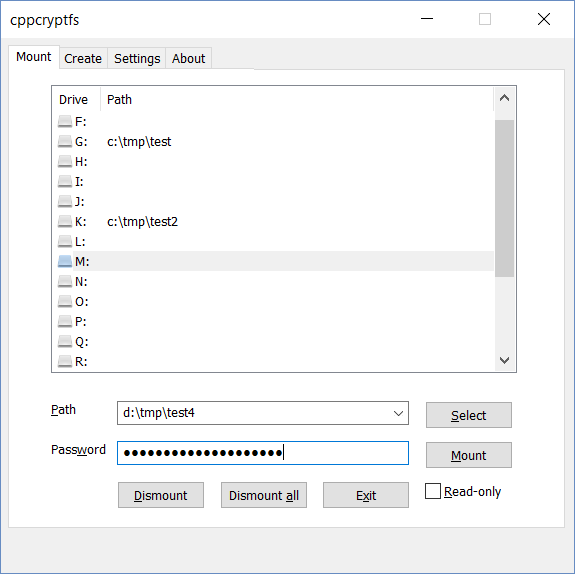
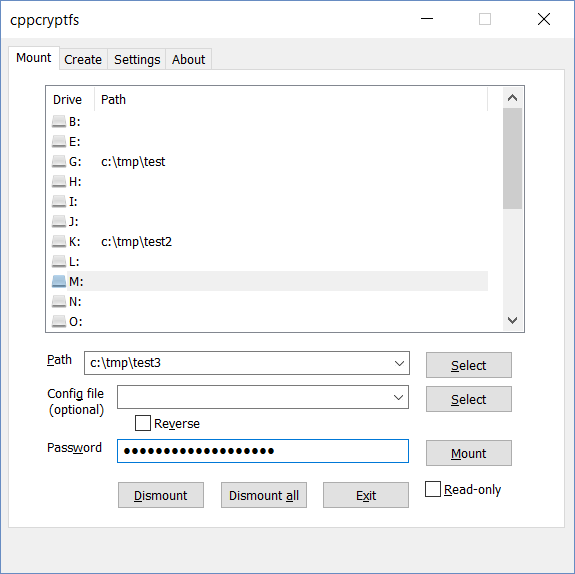
update readme and screenshots for custom config file

diff --git a/README.md b/README.md
@@ -49,7 +49,7 @@ Build Requirements
 
 There are detailed build instructions in [INSTALL.md](INSTALL.md).
 
-cppcryptfs is currently up-to-date with Dokany 1.0.3
+cppcryptfs is currently up-to-date with Dokany 1.0.5
 
 
 Use
@@ -87,7 +87,9 @@ Note: In the gocryptfs documentation, the SIV mode is referred to as AES-512-SIV
 
 If you check Reverse then you will be creating a Reverse Mode filesystem.  See the section in this document about Reverse Mode for more information.
 
-When you click on the "Create" button, a gocryptfs.conf file will be created in the directory.  Unless you choose to use plain text file names, a gocryptfs.diriv will also be created there.  Be sure to back up these files in case they get lost or corrupted.  You won't be able to access any of your data if something happens to gocryptfs.conf.  gocryptfs.conf will never change for the life of your filesystem unless you change the volume label (see bellow).
+If you wish, you can specifiy a config file.  This is the file that contains the settings for the filesystem and also the random 256-bit AES master key that is encrypted using your password.  The config file file can be kept outside the encrypted filesystem for an extra degree of security.
+
+When you click on the "Create" button, config file will be created. It will be created as gocryptfs.conf in the root directory of the encrypted filesystem unless you specified an alternate config file.  Unless you choose to use plain text file names, a gocryptfs.diriv will also be created there.  Be sure to back up these files in case they get lost or corrupted.  You won't be able to access any of your data if something happens to gocryptfs.conf.  gocryptfs.conf will never change for the life of your filesystem unless you change the volume label (see bellow).
 
 If you choose to give the volume a label, then the label will be encrypted in gocryptfs.conf.  The maximum volume label length is 32 characters. 
 
@@ -98,9 +100,15 @@ You can right click on the mounted drive letter in File Explorer, select "Proper
 Then go to the "Mount" tab and select a drive letter and select the folder you
 just created the filesystem in.  Then enter the password and click on the "Mount" button.
 
+If you specified a custom path for the config file when you created the filesystem, then you must specify it here also.
+
+If you specified a custom path for the config file, you must also select "reverese" if it is a reverse filesystem.  Otherwise, cppcryptfs will automatically dtect if the filesytem should be mounted in forward or reverse mode.
+
+Note:  cppcryptfs uses the path to the encrypted filesystem as a key for rembering the custom path to the config file (if there is one) and other settings like reverse and read only.  So when you select a path to mount, be sure to verify that these settings are what you wish to use this time.
+
 ![Alt text](/screenshots/screenshot_mount.png?raw=true "Mount tab")
 
-Your will then have a new drive letter, and you can use it like a normal drive letter and store your sensitive information there.  The data is encrypted and saved in files in the folder you specified.
+After you mount the filesystem, you will then have a new drive letter, and you can use it like a normal drive letter and store your sensitive information there.  The data is encrypted and saved in files in the folder you specified.
 
 If you check "Read-only", then the filesystem will be mounted read-only (write-protected).
 
@@ -232,6 +240,8 @@ normal/forward mode).
 When you go to mount a filesystem, cppcryptfs first looks for .gocryptfs.reverse.conf, and if it finds it, then it will mount the filesystem
 in reverse mode.  If it doesn't find .gocryptfs.reverse.conf, then it will try to open gocryptfs.conf, and if it succeeds, then the filesysem will
 mounted in forward (normal) mode.
+
+If you specified a custom path for the config file, then you must check "reverse" to mount the filesystem in reverse mode.
 
 If you mount a reverse filesystem and then copy the whole directory tree to some other location, you can then mount that copy (which contains encrypted files and the normal mode config file and other support files) as a forward (normal) filesystem.
 
@@ -427,5 +437,5 @@ cppcryptfs can mount all filesystems created by gocryptfs v0.7 and higher. Likew
 The gocryptfs [compatability matrix](https://github.com/rfjakob/gocryptfs/wiki/Compatibility) provides more details. cppcryptfs *requires* the DirIV, EMENames and GCMIV128 feature flags. It *supports* LongNames and can create filesystems with the flag on and off.
 
 Note: cppcryptfs now keeps version number parity with gocryptfs to indicate its compatibility
-with gocryptfs.  cppcryptfs is now version 1.3 and should be able to mount all filesystems created with gocryptfs 1.3.
+with gocryptfs.  cppcryptfs is now version 1.4 and should be able to mount all filesystems created with gocryptfs 1.4.
 
